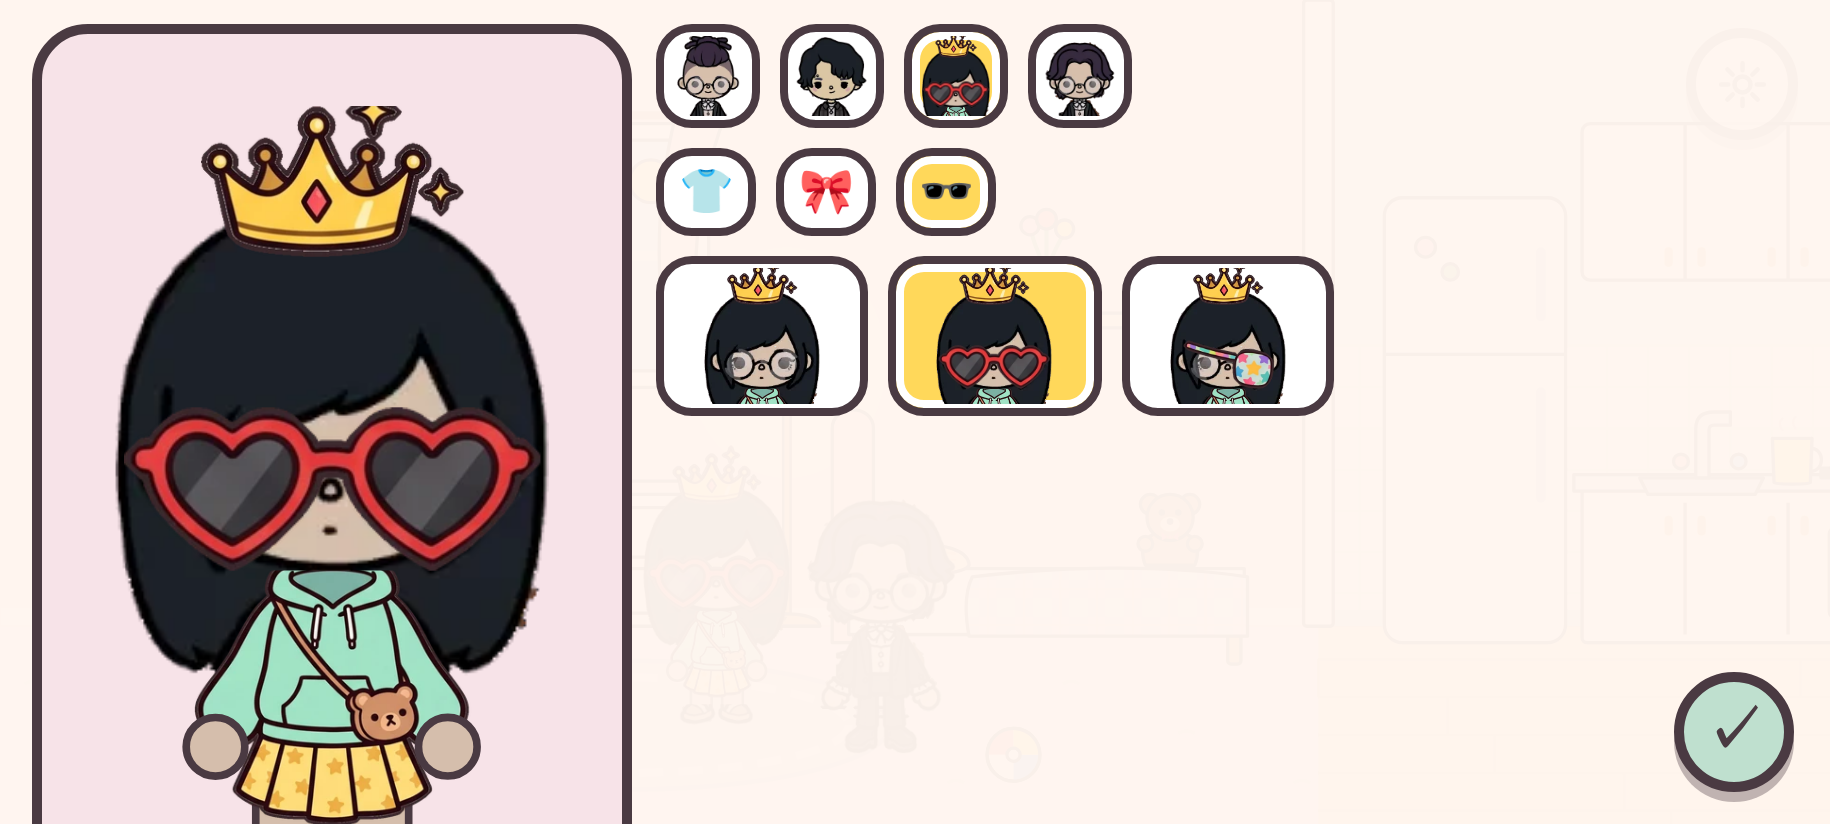
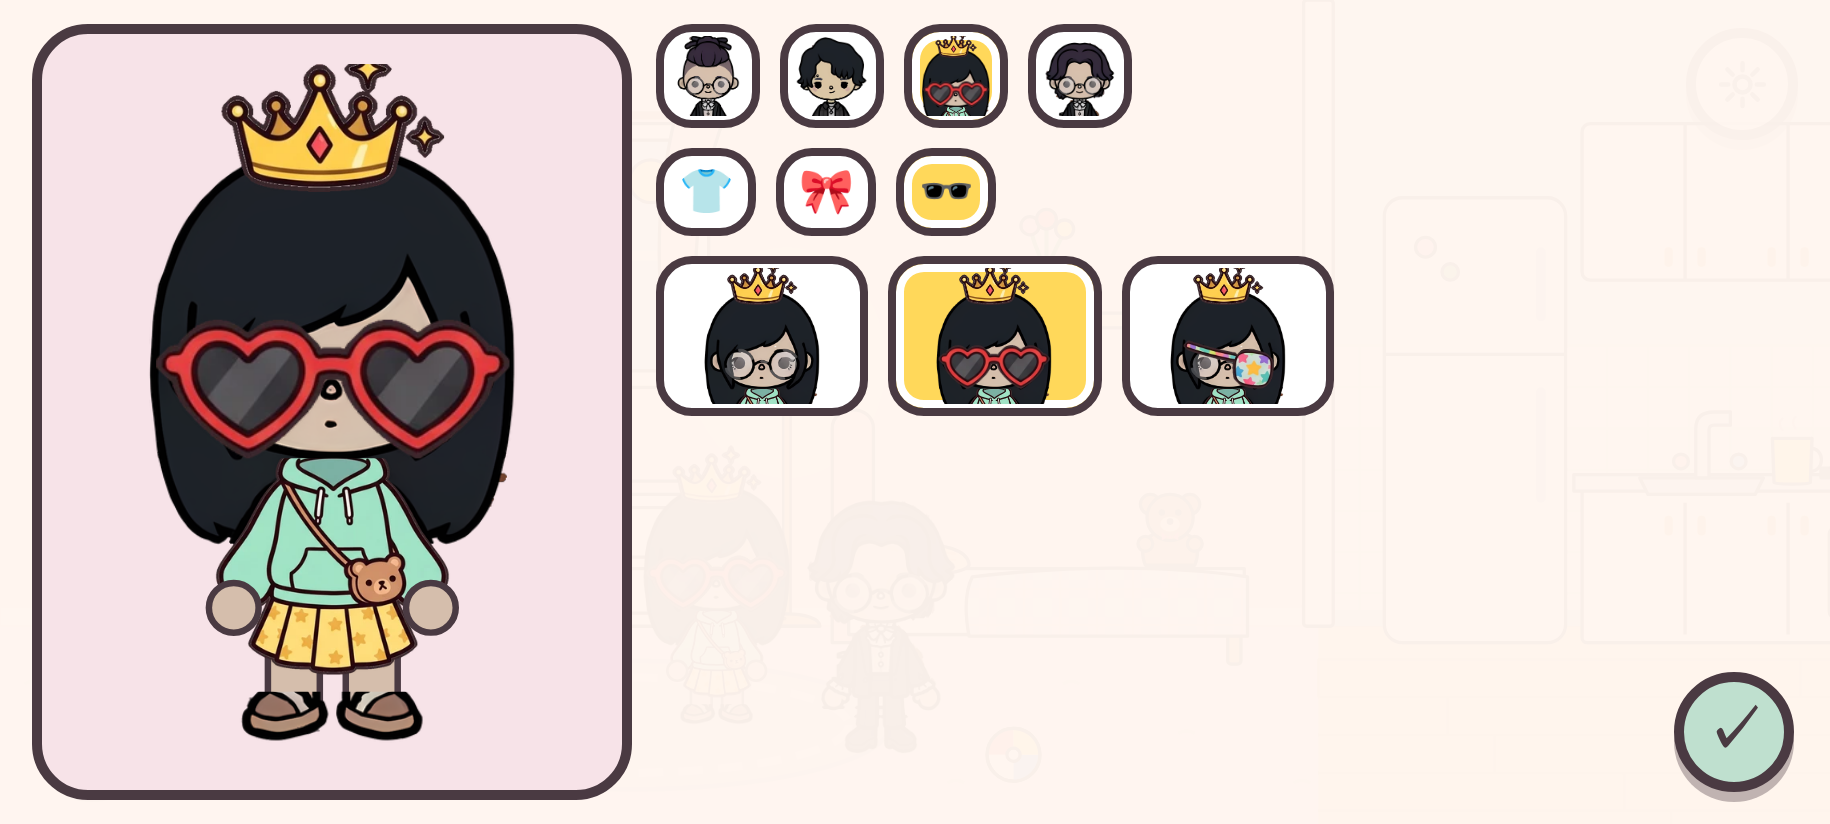
きがえ画面が画面に収まるように修正
Claude-Session: https://claude.ai/code/session_01PvhxpobyVgnj3mCfAJoKXi

Changed region(s): [[0.0, 0.0607, 0.3426, 1.0]]

diff --git a/style.css b/style.css
@@ -31,11 +31,13 @@ button { font: inherit; color: inherit; cursor: pointer; touch-action: manipulat
 /* きがえ画面 */
 #dress {
   position: fixed; inset: 0; background: rgba(255, 246, 240, .97);
-  display: grid; grid-template-columns: minmax(180px, 34%) 1fr; gap: 12px; padding: 12px 16px;
+  display: grid; grid-template-columns: minmax(180px, 34%) 1fr; grid-template-rows: minmax(0, 1fr); gap: 12px; padding: 12px 16px;
+  overflow: hidden;
 }
 #dress[hidden], #settings[hidden] { display: none; }
-#dress .stage { display: grid; place-items: end center; background: #f7e3e8; border-radius: 28px; border: 5px solid var(--ink); }
-#dress .stage svg { width: 100%; height: 92%; }
+/* 画面の高さに必ず収める（人の絵が大きすぎて足元が切れないように） */
+#dress .stage { position: relative; min-height: 0; overflow: hidden; background: #f7e3e8; border-radius: 28px; border: 5px solid var(--ink); }
+#dress .stage svg { position: absolute; inset: 4% 3% 2%; width: 94%; height: 94%; }
 #dress .side { display: flex; flex-direction: column; gap: 10px; min-height: 0; }
 #dress .who, #dress .tabs { display: flex; gap: 10px; flex-wrap: wrap; }
 .who-btn, .tab, .opt { border: 4px solid var(--ink); border-radius: 18px; background: #fff; padding: 2px; }

diff --git a/sw.js b/sw.js
@@ -1,5 +1,5 @@
 // 一度開けば、ネットがなくても遊べるようにする。中身を変えたら VERSION を上げる
-const VERSION = 'ouchi-v4';
+const VERSION = 'ouchi-v5';
 const FILES = [
   './', './index.html', './style.css', './manifest.webmanifest',
   './js/main.js', './js/characters.js', './js/items.js', './js/rooms.js', './js/sound.js', './js/dress.js',
